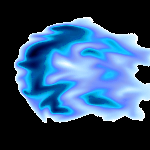
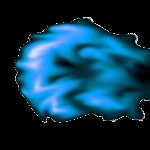
Recolored blue fireball to make it look better

diff --git a/items.py b/items.py
@@ -118,7 +118,7 @@ class AimedFireball(Fireball):
         Fireball.__init__(self, origin, direction, 0, 0)
         self.aimed_at = aimed_at
         self.dest = aimed_at.rect.copy()
-        self.image = pygame.image.load('assets/images/blue-fireball.jpg').convert()
+        self.image = pygame.image.load('assets/images/blue-fireball.png').convert()
         self.image.set_colorkey(self.image.get_at((0,0)))
 
     def update(self):
